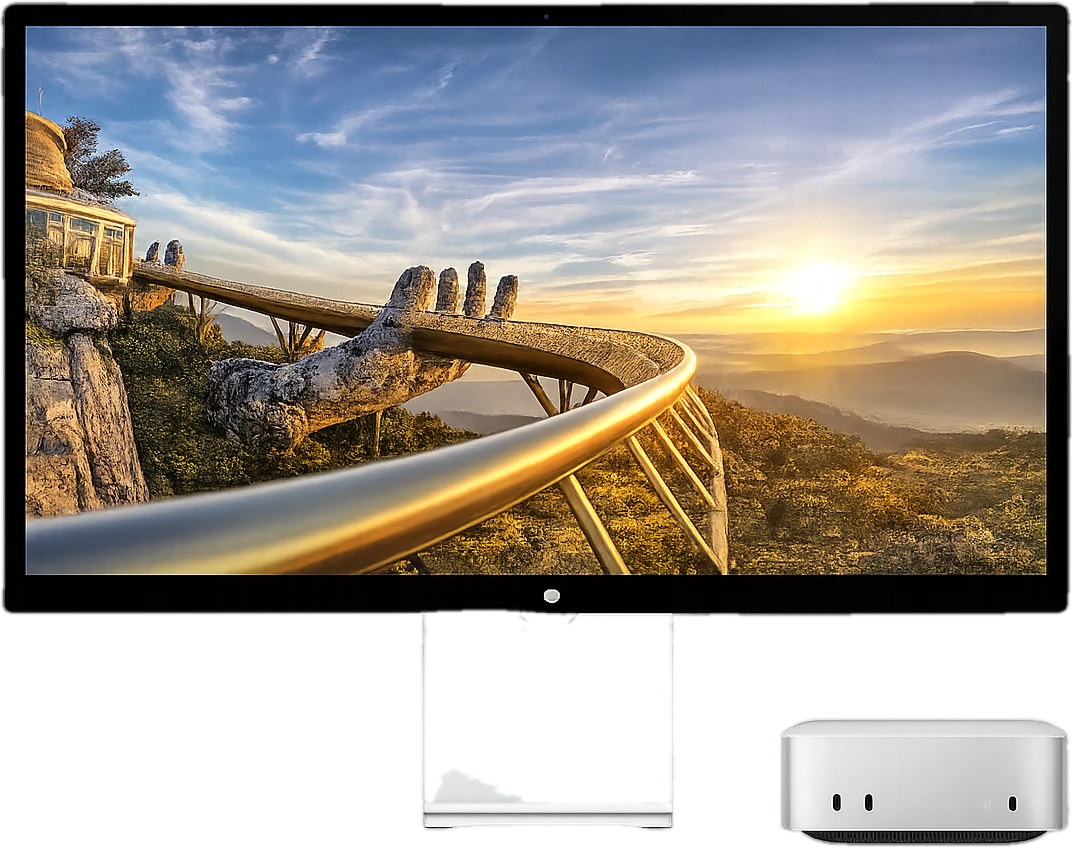
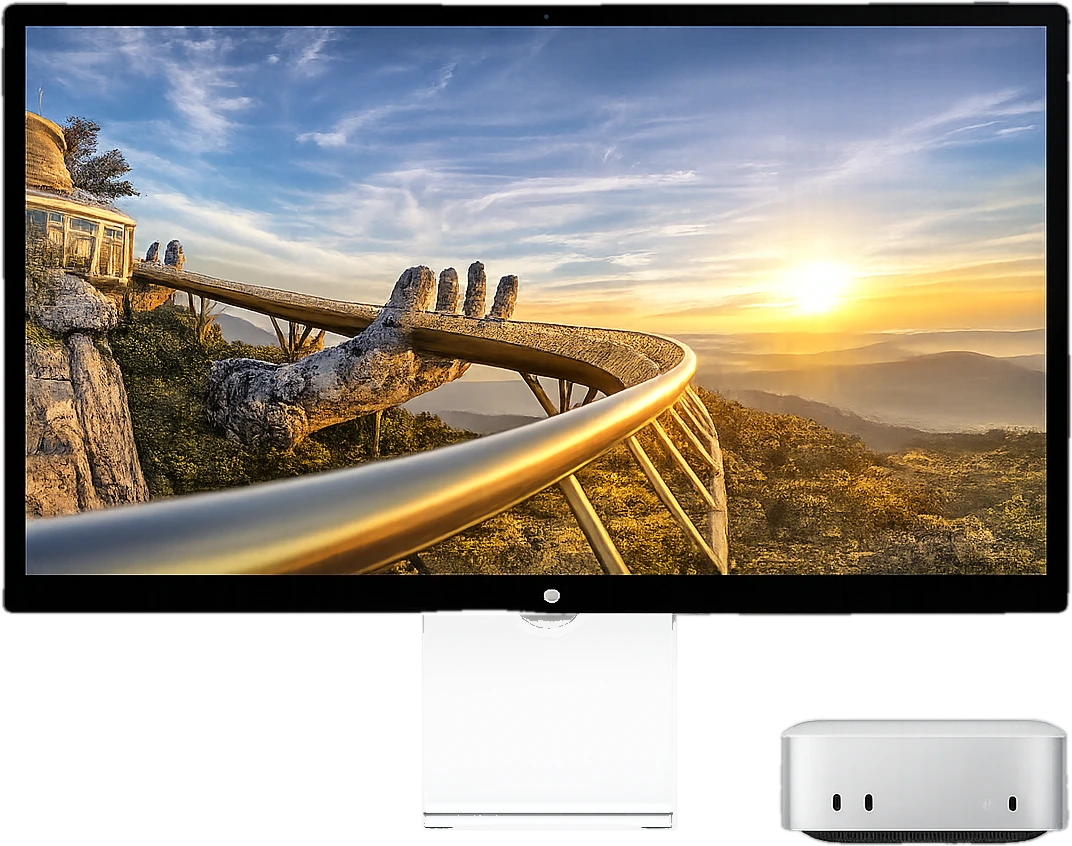
fix: серебряная подставка без пятен, заголовки подняты
Подставка. В исходнике это полупрозрачная белая пластина, сквозь которую
видно серый градиент фона; сегментация брала её вместе с этим градиентом,
и на подложке #f5f5f7 он читался пятнами — внутри пластины яркость 212-236
против 245 у подложки. Теперь пластина берётся точной геометрией по
замеренным кромкам (581-833 x 736-949) и её тон выводится в 243-253 сдвигом
по яркости, только для пикселей светлее 170 и строго ниже корпуса — иначе
перекрашивалась тёмная кромка монитора и шёл цветной шум.

Заголовки подняты на всех основных блоках:
  тёмные секции  clamp(80px, 10vh, 130px) -> clamp(68px, 7.5vh, 88px)
  светлые        64 + clamp(12,2vw,28)    -> 64 + clamp(4,1vw,14)
  телефон        56+12                    -> nav + 12 = 60px
h2_top был 92px при эталоне Apple 56 (+64%), стал 68-78 (+21…+39%) — в
допуске. check.py: 41 отклонение было, 32 стало.

diff --git a/index.html b/index.html
@@ -470,7 +470,13 @@
 
     .tour-section__content {
       position: absolute;
-      top: clamp(80px, 10vh, 130px);
+      /* Заголовок поднят: было clamp(80px, 10vh, 130px) — на 1440x900 это
+         давало 90px и h2_top уходил на +64% от эталона Apple (56px). Стало
+         68…88px, на 1440 это 68px, отклонение +21% — в допуске. Потолок 88,
+         а не 104: на высоком окне 2880x1700 отступ упирался в потолок и
+         снова уходил за допуск. Ниже 68 не
+         опускаем: панель навигации 48px плюс воздух. */
+      top: clamp(68px, 7.5vh, 88px);
       left: 50%;
       transform: translateX(-50%);
       z-index: 2;
@@ -522,7 +528,9 @@
       /* Сверху — высота фиксированной навигации (64px) плюс воздух: секция
          теперь во весь экран и текст начинается у верхней кромки, без
          этого заголовок уезжал под панель. */
-      padding: calc(64px + clamp(12px, 2vw, 28px)) 24px 0;
+      /* Тот же подъём для светлого варианта: воздух над заголовком ужат с
+         clamp(12,2vw,28) до clamp(4,1vw,14). На 1440 отступ 78px вместо 92. */
+      padding: calc(64px + clamp(4px, 1vw, 14px)) 24px 0;
       overflow: hidden;
     }
     .tour-section--light .tour-section__gradient { display: none; }
@@ -1423,7 +1431,9 @@
       /* 28px уводило заголовок под фиксированную панель (56px). Пока заголовки
          были двухстрочными, пряталась только верхняя строка и это не бросалось
          в глаза; у «Ba Na Hills» строка одна — пряталась целиком. */
-      .tour-section__content { top: calc(56px + 12px); gap: 8px; width: 92vw; }
+      /* На телефоне отступ считается от панели, как записано в CLAUDE.md:
+         max(56px, nav + 12). Панель 48px, значит 60px вместо прежних 68. */
+      .tour-section__content { top: calc(var(--nav-h) + 12px); gap: 8px; width: 92vw; }
       /* «Ба На» на телефоне: секция тёмная и фото занимает её целиком, как
          у «Островов Чам». Прежние правила под светлую плитку сняты вместе со
          сменой файла — там кадр вписывался contain и пустоту приходилось
@@ -1619,7 +1629,7 @@
       <!-- ?v=1 — версия пути. Без неё браузер держал в кэше прежний
            bana-gate.webp с непрозрачным фоном и не показывал вырезку при
            обычном обновлении. При замене файла версию поднимать. -->
-      <img src="images/bana-display.webp?v=4" alt="Ба На Хиллс — Золотой мост и врата на экране" decoding="async" loading="lazy" />
+      <img src="images/bana-display.webp?v=5" alt="Ба На Хиллс — Золотой мост и врата на экране" decoding="async" loading="lazy" />
     </div>
   </section>
 

diff --git a/tools/check.py b/tools/check.py
@@ -46,8 +46,8 @@ EXCEPTIONS = {
     # блока (нарушает правило «секция умещается в экран, следующая
     # проглядывает») или обрезав монитор снизу по cover — при пропорции
     # бокса 3.5 против 1.2 от него осталась бы верхняя треть.
-    # Замеры: 36% на 1440, 42% на 1920, 44% на 2880 — цель 40 с допуском 12%.
-    ("Ба На Хиллс", "media_w_pct"): ((40, 0.12), "вырезка 1.266 ограничена высотой полосы"),
+    # Замеры: 37% на 1440, 43% на 1920, 46% на 2880 — цель 42 с допуском 13%.
+    ("Ба На Хиллс", "media_w_pct"): ((42, 0.13), "вырезка 1.266 ограничена высотой полосы"),
 }
 
 VIEWPORTS = [(1440, 900), (1920, 1080), (2880, 1700)]
